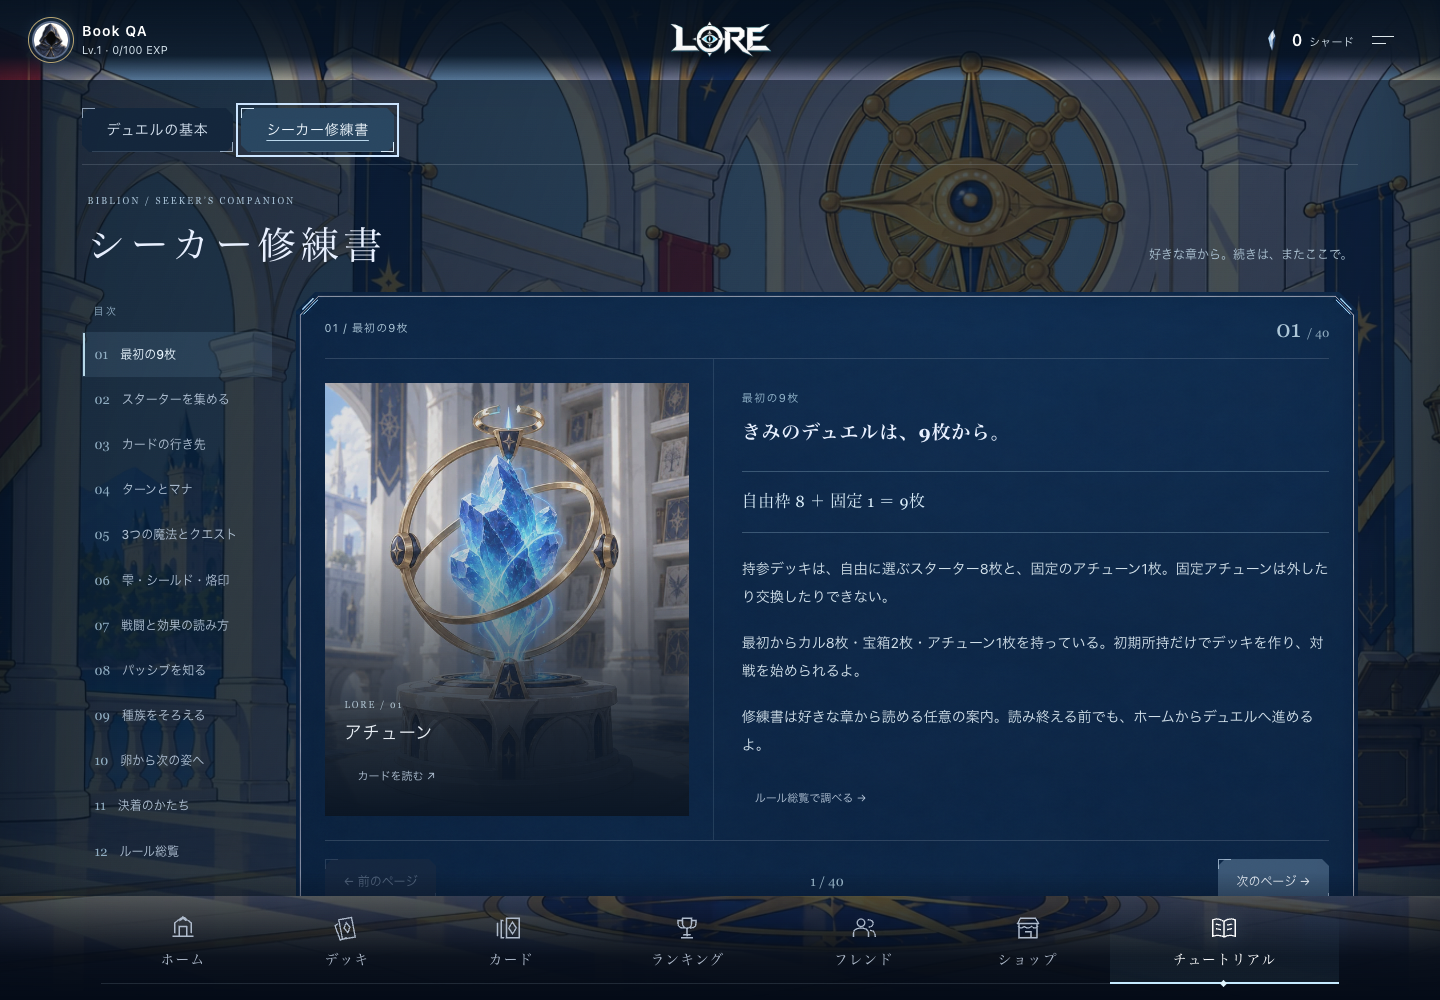
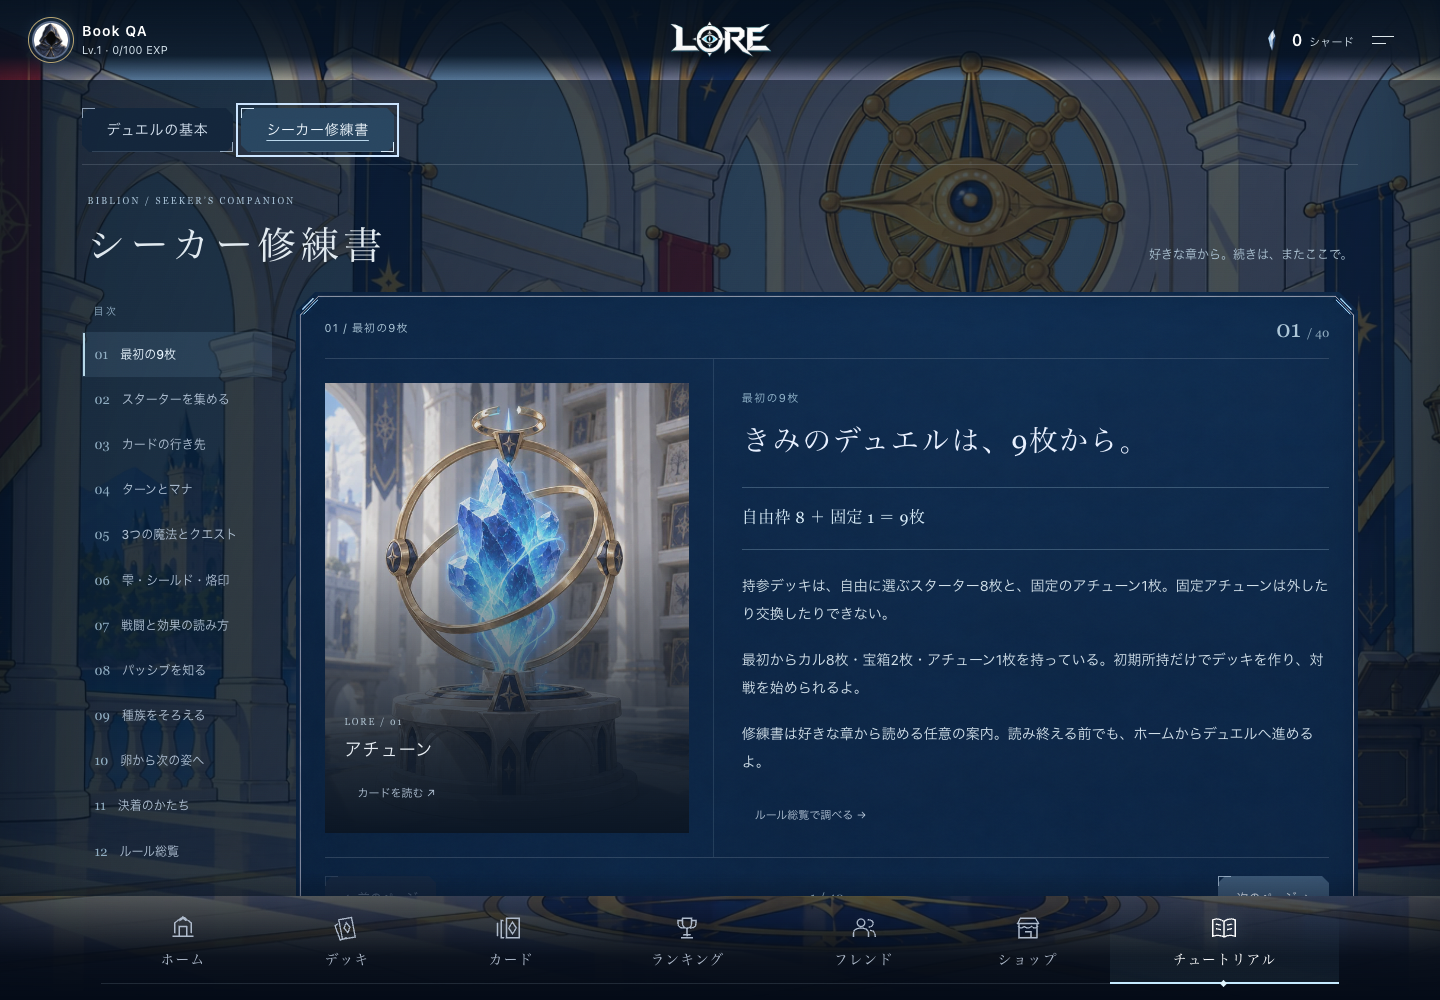
Verify reading layouts and completed tutorial handoff

diff --git a/client/src/styles/seekerBook.css b/client/src/styles/seekerBook.css
@@ -6,7 +6,7 @@
 .tutorial-basics-shell:has(.seeker-book:not([hidden])){width:min(1320px,calc(100% - 48px))}
 .seeker-book{--book-ink:#e1eaf0;--book-muted:#a9c0d0;color:var(--book-ink)}
 .seeker-book-heading{display:flex;justify-content:space-between;align-items:end;gap:24px;margin:6px 0 24px;padding:0 6px}
-.seeker-book-heading h1{font:500 clamp(27px,3vw,38px)/1.5 Georgia,"Noto Serif JP",serif;letter-spacing:.13em;margin:8px 0 0}
+.seeker-book .seeker-book-heading h1{font:500 clamp(27px,3vw,38px)/1.5 Georgia,"Noto Serif JP",serif;letter-spacing:.13em;margin:8px 0 0}
 .seeker-book-heading .menu-eyebrow{font-size:9px;letter-spacing:.24em;color:#a8c2d7}
 .seeker-book-heading>p{margin:0 0 8px;font-size:12px;line-height:1.8;color:var(--book-muted)}
 .seeker-desk{display:grid;grid-template-columns:190px minmax(0,1fr);gap:24px;align-items:start}
@@ -29,15 +29,15 @@
 .seeker-plate figcaption>button{align-self:start;font-size:11px!important;padding:9px 12px!important}
 .seeker-leaf{padding:28px 0 24px 28px;border-left:1px solid #b7d4e321;min-width:0}
 .seeker-chapter-caption{font-size:11px;letter-spacing:.12em;color:#94b6cc}
-.seeker-page-title{font:500 clamp(22px,2.1vw,29px)/1.65 Georgia,"Noto Serif JP",serif;letter-spacing:.04em;margin:11px 0 22px;outline-offset:5px;overflow-wrap:anywhere}
-.seeker-page-title:focus-visible{outline:1px solid #a6d9f5}
+.seeker-book .seeker-page-title{font:500 clamp(22px,2.1vw,29px)/1.65 Georgia,"Noto Serif JP",serif;letter-spacing:.04em;margin:11px 0 22px;outline-offset:5px;overflow-wrap:anywhere;text-wrap:balance;line-break:strict}
+.seeker-book .seeker-page-title:focus-visible{outline:1px solid #a6d9f5}
 .seeker-prose{font-size:14px;line-height:2;color:#d0dfe9;overflow-wrap:anywhere}.seeker-prose p{margin:0 0 18px}
 .seeker-example{border-block:1px solid #a6c9dc48;padding:16px 0;margin-bottom:22px;color:#d9edf9;font:500 16px/1.8 Georgia,"Noto Serif JP",serif;letter-spacing:.025em}
 .seeker-route{font-size:12px!important;padding:11px 18px!important;margin-right:8px}.seeker-reference-link{display:block;margin-top:20px;font-size:11px!important;padding:9px 12px!important;color:#adc7da}
 .seeker-page-nav{display:flex;align-items:center;justify-content:space-between;gap:12px;border-top:1px solid var(--lore-line);padding-top:18px}
 .seeker-page-nav button{min-height:44px;padding:11px 18px;font-size:12px}.seeker-page-status{font:13px Georgia,serif;color:#a5c4d7;white-space:nowrap}
 .seeker-mobile-contents{display:none}
-.seeker-volume.is-reference .seeker-spread{display:block;min-height:0}.seeker-volume.is-reference .seeker-leaf{border:0;padding:24px 0 4px}.is-reference .seeker-page-title{margin-bottom:12px}.is-reference .seeker-prose{font-size:13px}
+.seeker-volume.is-reference .seeker-spread{display:block;min-height:0}.seeker-volume.is-reference .seeker-leaf{border:0;padding:24px 0 4px}.is-reference .seeker-book .seeker-page-title{margin-bottom:12px}.is-reference .seeker-prose{font-size:13px}
 .seeker-reference-controls{display:grid;grid-template-columns:minmax(0,1fr) 150px;gap:16px;margin:4px 0 18px}
 .seeker-reference-controls label{display:grid;gap:8px;font-size:11px;color:#a8c1d4}
 .seeker-reference-controls :is(input,select),.seeker-mobile-contents select{width:100%;min-width:0;min-height:44px;background:#0c1c30;color:#e0edf6;border:1px solid #96b6d14a;border-radius:0;padding:10px 12px;font:inherit;font-size:13px}
@@ -47,9 +47,9 @@
 .seeker-results-nav{display:flex;justify-content:space-between;align-items:center;gap:10px;padding:18px 0}.seeker-results-nav button{font-size:11px;min-height:44px;padding:9px 12px}.seeker-result-count{font-size:11px;color:#b5cbdc;text-align:center}.seeker-empty{padding:25px 0;font-size:14px;line-height:1.8}
 .seeker-invitation{display:flex;align-items:center;justify-content:space-between;gap:20px;padding:20px 24px;margin-bottom:24px;border-top:1px solid #a9ccdf55;border-bottom:1px solid #a9ccdf33;background:#1b3c5640}.seeker-invitation p{margin:0;color:#c9e0ed;font-size:13px;line-height:1.9}.seeker-invitation strong{display:block;color:#eef5f9;font-weight:500;font-size:17px}.seeker-invitation button{min-height:44px;white-space:nowrap;padding:12px 20px;font-size:12px}
 @media(min-width:1500px){.seeker-prose{font-size:15px}.seeker-spread{min-height:550px}}
-@media(max-width:1000px){.seeker-desk{grid-template-columns:155px minmax(0,1fr);gap:14px}.seeker-chapter{padding:10px 7px!important;gap:8px}.seeker-volume{padding:20px}.seeker-spread{grid-template-columns:1fr 1.5fr}.seeker-leaf{padding-left:18px}.seeker-plate{margin-right:18px}.seeker-book-heading>p{max-width:180px}.seeker-page-title{font-size:23px}}
-@media(max-width:760px){.tutorial-basics-shell:has(.seeker-book:not([hidden])){width:calc(100% - 24px)}.tutorial-learning-tabs{gap:6px;margin-bottom:18px}.tutorial-learning-tabs [role=tab]{padding:10px 13px;font-size:12px;flex:1}.seeker-book-heading{display:block;margin-bottom:18px}.seeker-book-heading h1{font-size:27px}.seeker-book-heading>p{max-width:none;margin-top:8px}.seeker-desk{display:block}.seeker-contents{display:none}.seeker-mobile-contents{display:flex;gap:8px;align-items:center;min-width:0}.seeker-mobile-contents>span{flex:none}.seeker-mobile-contents select{font-size:12px}.seeker-running-title{display:none}.seeker-volume{padding:20px 18px}.seeker-spread{display:flex;flex-direction:column;min-height:0}.seeker-plate{height:170px;flex:none;margin:18px 0 0}.seeker-plate>img{object-position:center 38%}.seeker-plate::after{background:linear-gradient(90deg,#0b1624ee,transparent)}.seeker-plate figcaption{bottom:15px;left:15px;right:45%;gap:4px}.seeker-plate figcaption>b{font-size:14px}.seeker-plate figcaption>span{font-size:8px}.seeker-leaf{padding:24px 0 10px;border:0}.seeker-page-title{font-size:23px;line-height:1.65}.seeker-prose{font-size:14px;line-height:1.95}.seeker-page-nav button{padding:11px;font-size:11px}.seeker-page-status{font-size:11px}.seeker-reference-controls{grid-template-columns:1fr;gap:12px}.seeker-reference-entry summary{grid-template-columns:65px 1fr 14px;gap:6px}.seeker-reference-entry summary>b{font-size:13px}.seeker-reference-body{padding-inline:4px}.seeker-results-nav{flex-wrap:wrap}.seeker-result-count{order:-1;width:100%}.seeker-invitation{display:block;padding:18px}.seeker-invitation button{margin-top:14px}.seeker-example{font-size:15px}}
-@media(max-width:360px){.seeker-volume{padding-inline:15px}.seeker-page-nav{gap:5px}.seeker-page-nav button{padding:10px 8px}.seeker-page-title{font-size:21px}.seeker-plate figcaption{right:28%}}
+@media(max-width:1000px){.seeker-desk{grid-template-columns:155px minmax(0,1fr);gap:14px}.seeker-chapter{padding:10px 7px!important;gap:8px}.seeker-volume{padding:20px}.seeker-spread{grid-template-columns:1fr 1.5fr}.seeker-leaf{padding-left:18px}.seeker-plate{margin-right:18px}.seeker-book-heading>p{max-width:180px}.seeker-book .seeker-page-title{font-size:23px}}
+@media(max-width:760px){.tutorial-basics-shell:has(.seeker-book:not([hidden])){width:calc(100% - 24px)}.tutorial-learning-tabs{gap:6px;margin-bottom:18px}.tutorial-learning-tabs [role=tab]{padding:10px 13px;font-size:12px;flex:1}.seeker-book-heading{display:block;margin-bottom:18px}.seeker-book .seeker-book-heading h1{font-size:27px}.seeker-book-heading>p{max-width:none;margin-top:8px}.seeker-desk{display:block}.seeker-contents{display:none}.seeker-mobile-contents{display:flex;gap:8px;align-items:center;min-width:0}.seeker-mobile-contents>span{flex:none}.seeker-mobile-contents select{font-size:12px}.seeker-running-title{display:none}.seeker-volume{padding:20px 18px}.seeker-spread{display:flex;flex-direction:column;min-height:0}.seeker-plate{height:170px;flex:none;margin:18px 0 0}.seeker-plate>img{object-position:center 38%}.seeker-plate::after{background:linear-gradient(90deg,#0b1624ee,transparent)}.seeker-plate figcaption{bottom:15px;left:15px;right:45%;gap:4px}.seeker-plate figcaption>b{font-size:14px}.seeker-plate figcaption>span{font-size:8px}.seeker-leaf{padding:24px 0 10px;border:0}.seeker-book .seeker-page-title{font-size:23px;line-height:1.65}.seeker-prose{font-size:14px;line-height:1.95}.seeker-page-nav button{padding:11px;font-size:11px}.seeker-page-status{font-size:11px}.seeker-reference-controls{grid-template-columns:1fr;gap:12px}.seeker-reference-entry summary{grid-template-columns:65px 1fr 14px;gap:6px}.seeker-reference-entry summary>b{font-size:13px}.seeker-reference-body{padding-inline:4px}.seeker-results-nav{flex-wrap:wrap}.seeker-result-count{order:-1;width:100%}.seeker-invitation{display:block;padding:18px}.seeker-invitation button{margin-top:14px}.seeker-example{font-size:15px}}
+@media(max-width:360px){.seeker-volume{padding-inline:15px}.seeker-page-nav{gap:5px}.seeker-page-nav button{padding:10px 8px}.seeker-book .seeker-page-title{font-size:21px}.seeker-plate figcaption{right:28%}}
 /* Dim only this reading surface; keep the adopted library visible behind it. */
 .tutorial-parts-screen:has(.seeker-book:not([hidden])){background:linear-gradient(110deg,#061422c4,#07152582 55%,#071525a3)}
 @media(min-width:761px){.tutorial-basics-shell:has(.seeker-book:not([hidden])){padding-top:20px}.seeker-book-heading{margin-bottom:18px}.seeker-spread{min-height:440px}}

diff --git a/docs/releases/2026-10-28-seeker-book/README.md b/docs/releases/2026-10-28-seeker-book/README.md
@@ -13,7 +13,7 @@
 
 ## 採用デザインと起動元
 
-制作開始の参照: `2e2f85ef275e26e91b9aaf79155970a4de5c4804`。リリース前に最新mainを取り込み、チュートリアル見出しの簡素化も保持。
+制作開始の参照: `2e2f85ef275e26e91b9aaf79155970a4de5c4804`。リリース前に `78ab18d350307dfa6d2753c7e8716a646ea191a5` のmainを取り込み、チュートリアル見出しの簡素化も保持。
 
 採用元: `client/src/ui/lounge.ts` の図書館背景、`client/src/ui/cardArt.ts` の現行原画、`client/src/styles/defaultUI.css` のazure-silver chamfer。方針は `docs/default-ui-design.md`、`docs/menu-design-insights.md`、`docs/world-bible.md`。既存の青銀面・細い銀線・切欠き角を用いた見開きと目次。スマホは縦読みと章選択。
 
